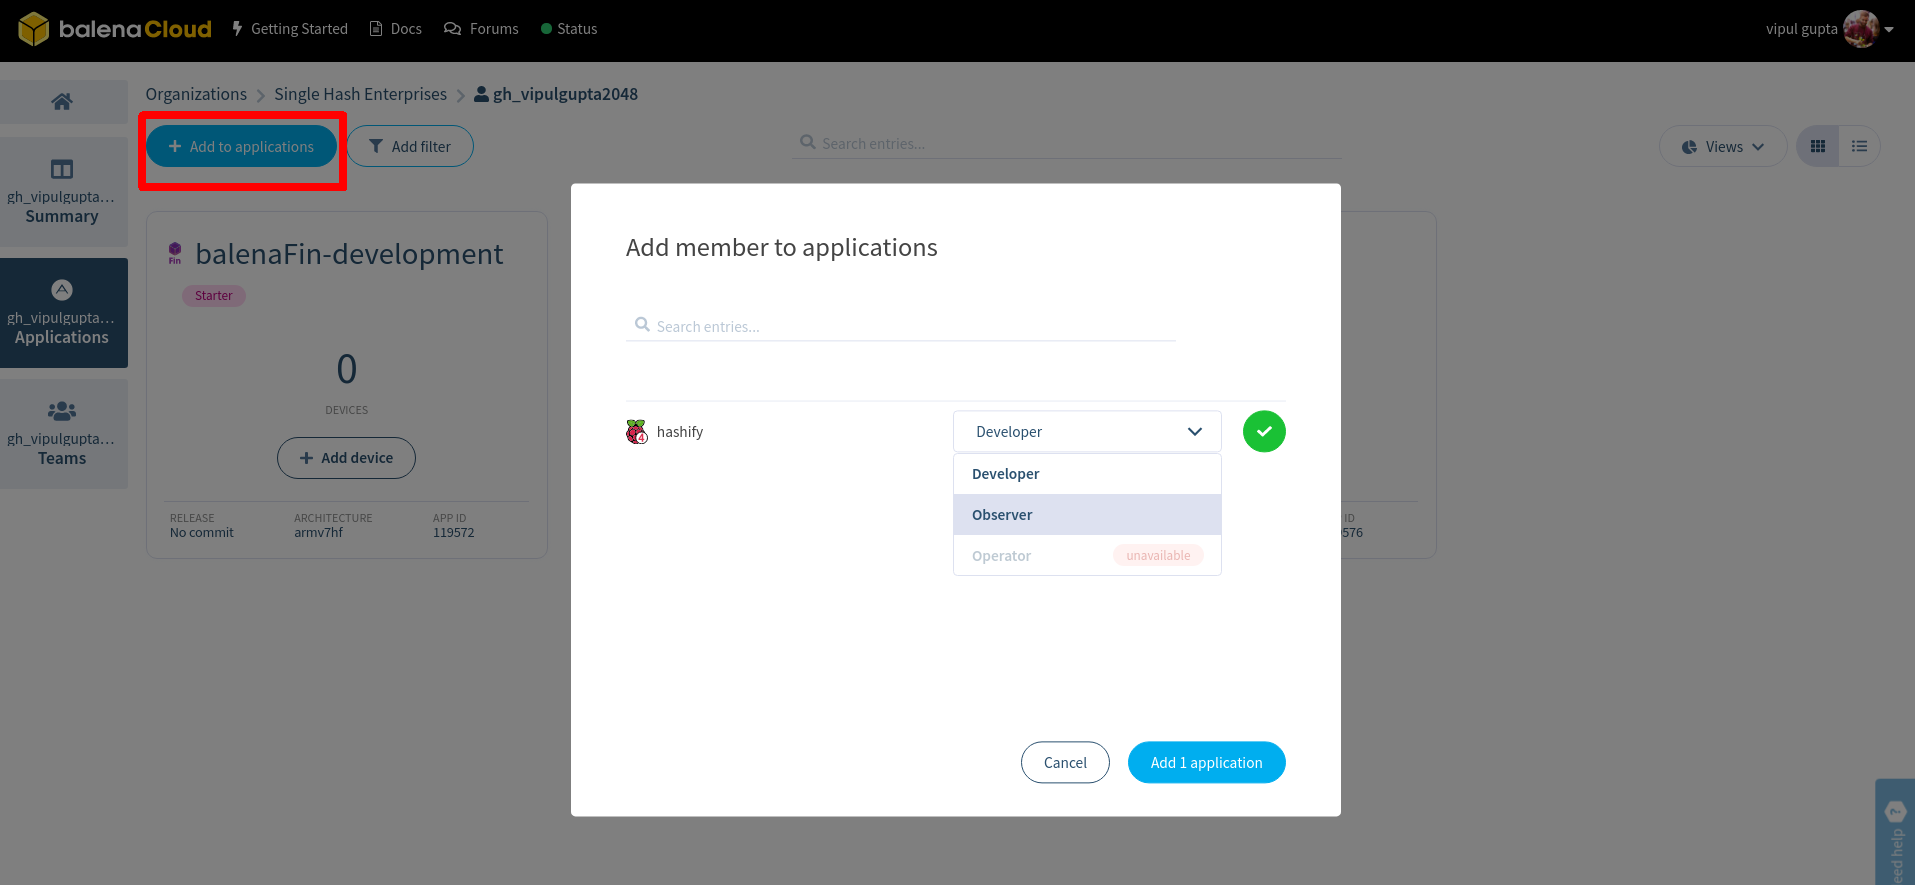
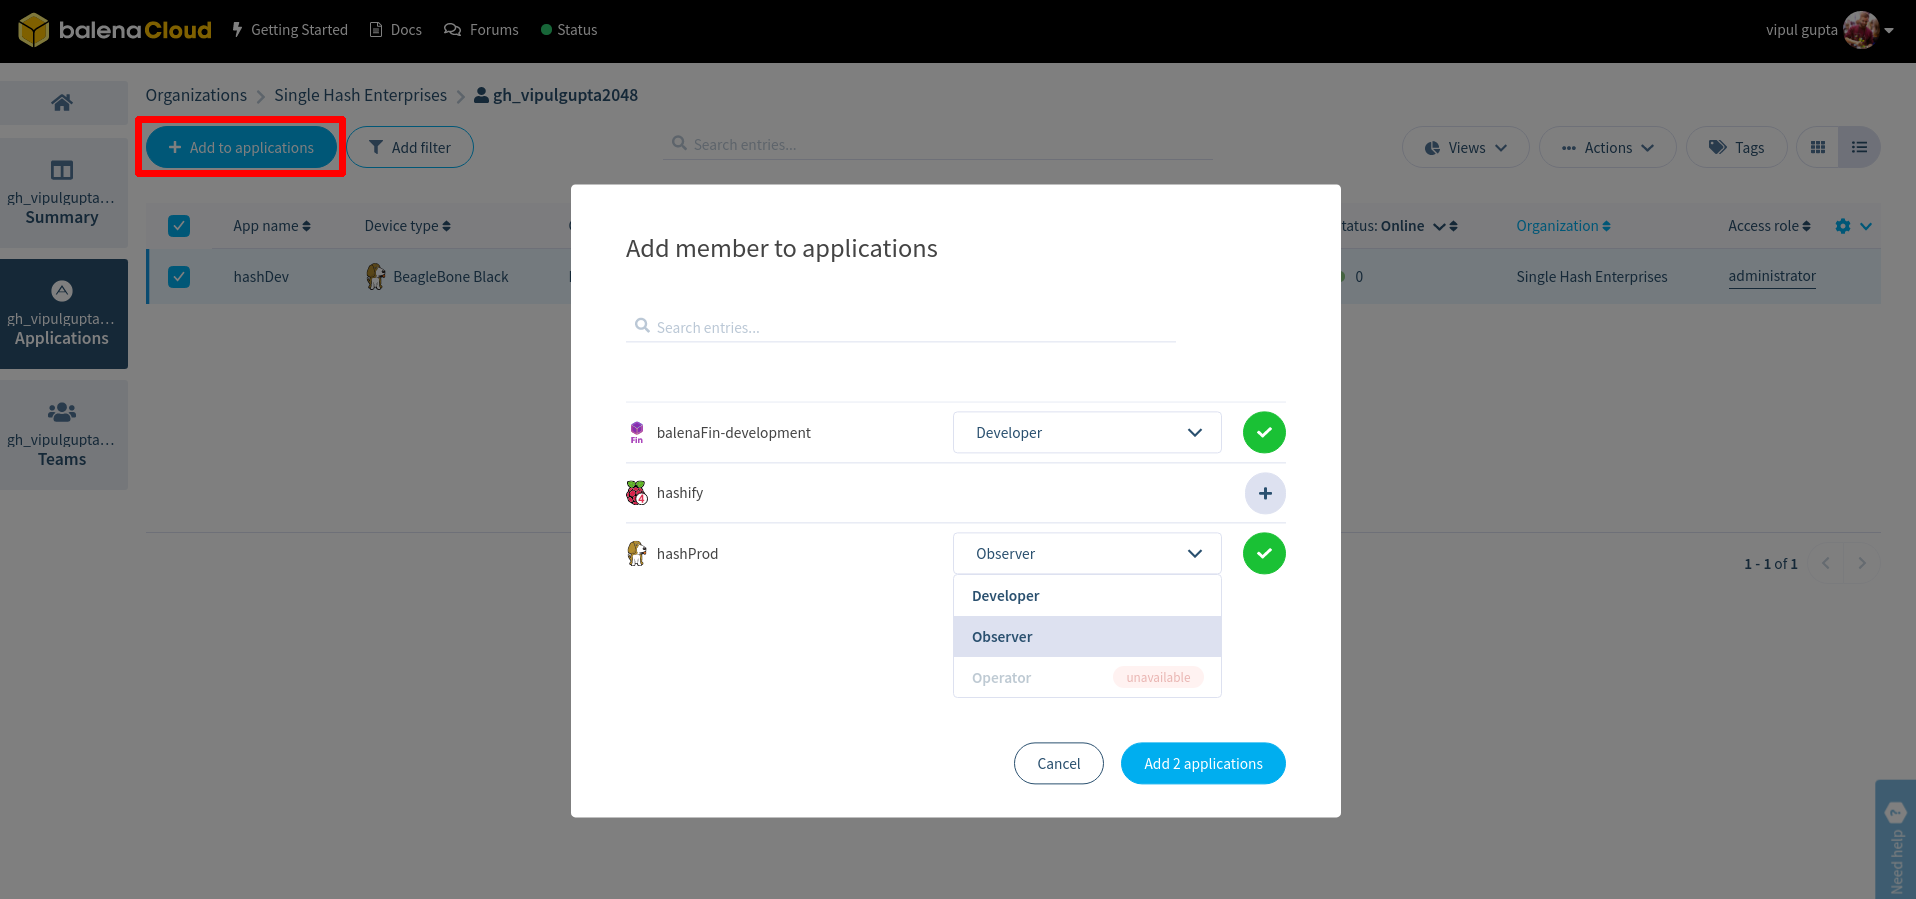
Add remove access to applications

diff --git a/pages/learn/manage/organizations.md b/pages/learn/manage/organizations.md
@@ -77,9 +77,9 @@ Moving an existing application to an organization is a common task accomplished 
 
 <img alt="Transfer Ownership" src="/img/common/app/transfer_ownership.png" width="100%">
 
-### Granting members access to applications
+### Granting access to organization applications
 
-Organization administrators can grant access to applications either directly for individual members or for teams. There are three application-level roles that can be assigned, [`Developer`](developer), [`Observer`](observer), and [`Operator`](operator), which grant varying levels of access. Administrators are implicitly granted full access to all applications of the organization.
+Organization administrators can grant access to applications either directly to individual members or to teams. There are three application-level roles that can be assigned, [`Developer`](developer), [`Observer`](observer), and [`Operator`](operator), which grant varying levels of access. Administrators are implicitly granted full access to all applications of the organization.
 
 - **Granting individual members access to applications** - Once you are done inviting members, click the username of the member you want to grant access from the `Members` list. On member's summary page, click `Manage applications`. From there, click the `Add to applications` button to add the member to one or more applications with the desired role.
 
@@ -89,6 +89,9 @@ Organization administrators can grant access to applications either directly for
 
 <img alt="Grant Team Access to Applications" src="/img/common/app/application_access_to_team.png" width="100%">
 
+Alternatively to **remove access** to applications, for individual members or teams. One can navigate back to the respective summary page of the member or team and click the `Manage applications` button there. From the app list, you should be able to select the checkboxes for the apps and use the `Actions` button to select `Remove access` from the list for the selected applications.
+
+<img alt="Remove Access to Applications" src="/img/common/app/remove_access_application.png" width="100%">
 
 ### I've got an app. How do I collaborate with others?
 
